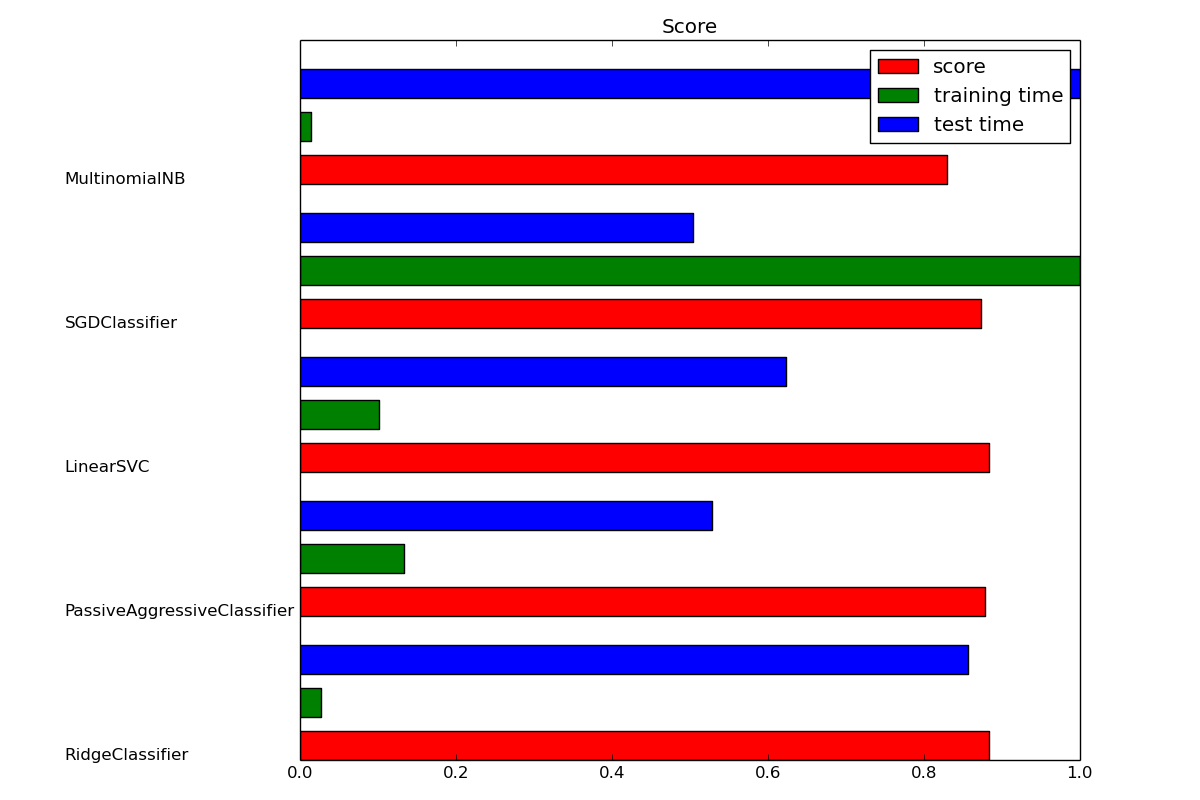
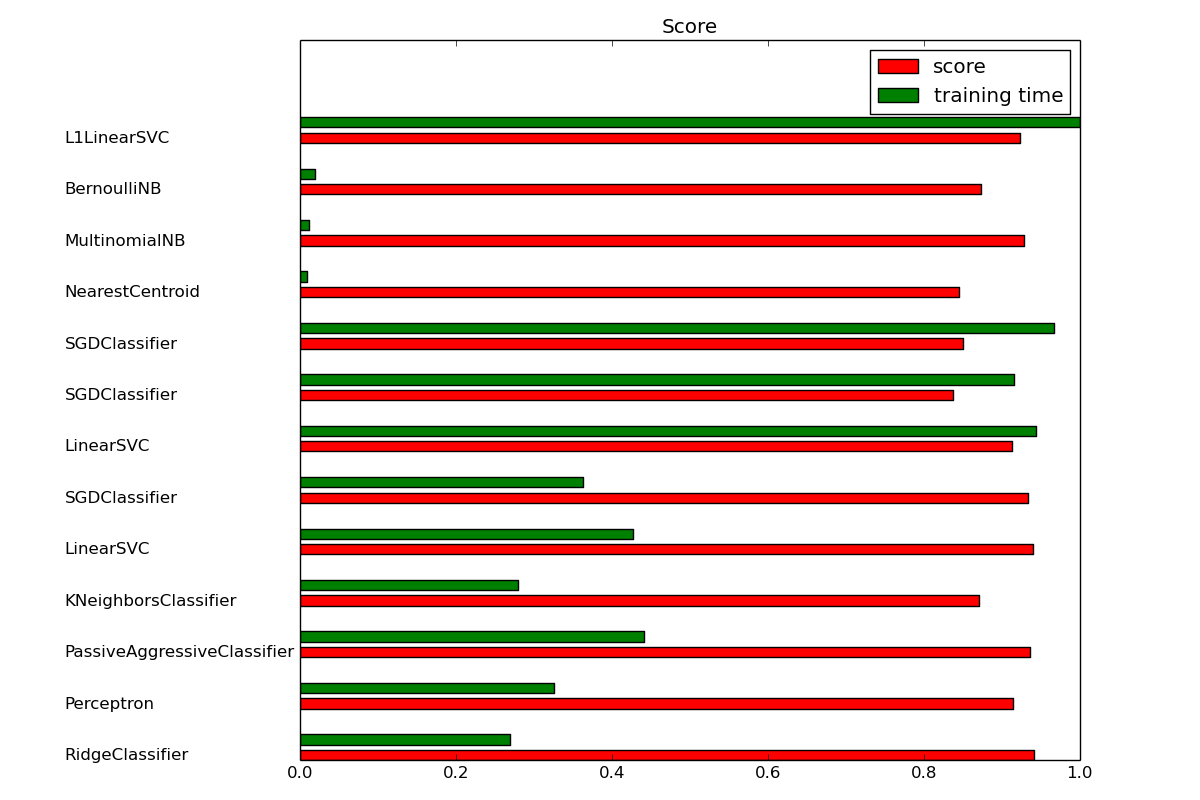
cmugeolocation

diff --git a/textylon/ai/ngram-crossvalidation.py b/textylon/ai/ngram-crossvalidation.py
@@ -67,8 +67,9 @@ import pylab as pl
 
 
 # matplotlib.use('Agg')
-DATA_FOLDER = "/home/af/Downloads/rt-polaritydata/rt-polaritydata/data"
-# DATA_FOLDER = "/home/af/Downloads/review_polarity/data"
+#DATA_FOLDER = "/home/af/Downloads/20news-18828"
+#DATA_FOLDER = "/home/af/Downloads/review_polarity/txt_sentoken"
+DATA_FOLDER = '/home/af/Downloads/GeoText.2010-10-12/processed_data/meanminmax/10_clustered'
 K_FOLD = 10
 data_target = load_files(DATA_FOLDER, encoding='latin1')
 DO_PCA = False
@@ -96,7 +97,8 @@ target = data_target.target
 
 print("Extracting features from all the dataset using a sparse vectorizer")
 t0 = time()
-vectorizer = TfidfVectorizer(use_idf=True, norm='l2', binary=False, sublinear_tf=True, min_df=2, max_df=1.0, ngram_range=(1, 2))
+vectorizer = TfidfVectorizer(use_idf=True, norm='l2', binary=False, sublinear_tf=True, min_df=2, max_df=1.0, ngram_range=(1, 1))
+
 # vectorizer = CountVectorizer(min_df=2, max_df=1.0, ngram_range=(1, 4))
 # the output of the fit_transform (x_train) is a sparse csc matrix.
 data = vectorizer.fit_transform(data_target.data)
@@ -174,7 +176,7 @@ for clf, name in (
     print(name)
     results.append(benchmark(clf))
 
-for penalty in ["l2", "l1"]:
+for penalty in ["l2"]:
     print('=' * 80)
     print("%s penalty" % penalty.upper())
     # Train Liblinear model

diff --git a/textylon/vectorizer/test/standardvectorizertest.py b/textylon/vectorizer/test/standardvectorizertest.py
@@ -9,10 +9,10 @@ import shutil
 import unittest
 import urllib2
 
-from com.textylon.dataprovider.simplecorpusdataprovider import SimpleCorpusDataProvider
-from com.textylon.normalizer.lowercasenormalizer import LowerCaseNormalizer
-from com.textylon.tokenizer.simpletokenizer import SimpleTokenizer
-from com.textylon.vectorizer.standardwordspace import StandartVectorizer
+from textylon.dataprovider.dataproviders import SimpleCorpusDataProvider
+from textylon.normalizer.normalizers import LowerCaseNormalizer
+from textylon.tokenizer.tokenizers import SimpleTokenizer
+from textylon.vectorizer.standardwordspace import StandartVectorizer
 
 
 logging.basicConfig(format='%(asctime)s %(module)s %(funcName)s %(message)s')

diff --git a/textylon/ai/test.py b/textylon/ai/test.py
@@ -21,9 +21,9 @@ from time import time
 
 import numpy as np
 import pylab as pl
-from stavicta.util.dsm import *
-from stavicta.util.dsm_classes import Matrix, Vocabulary
-from stavicta.vectorizer.dsmvectorizer import DSMVectorizer
+from textylon.util.dsm import *
+from textylon.util.dsm_classes import Matrix, Vocabulary
+from textylon.vectorizer.dsmvectorizer import DSMVectorizer
 
 
 DATA_FOLDER = "/home/af/Downloads/review_polarity/txt_sentoken"
